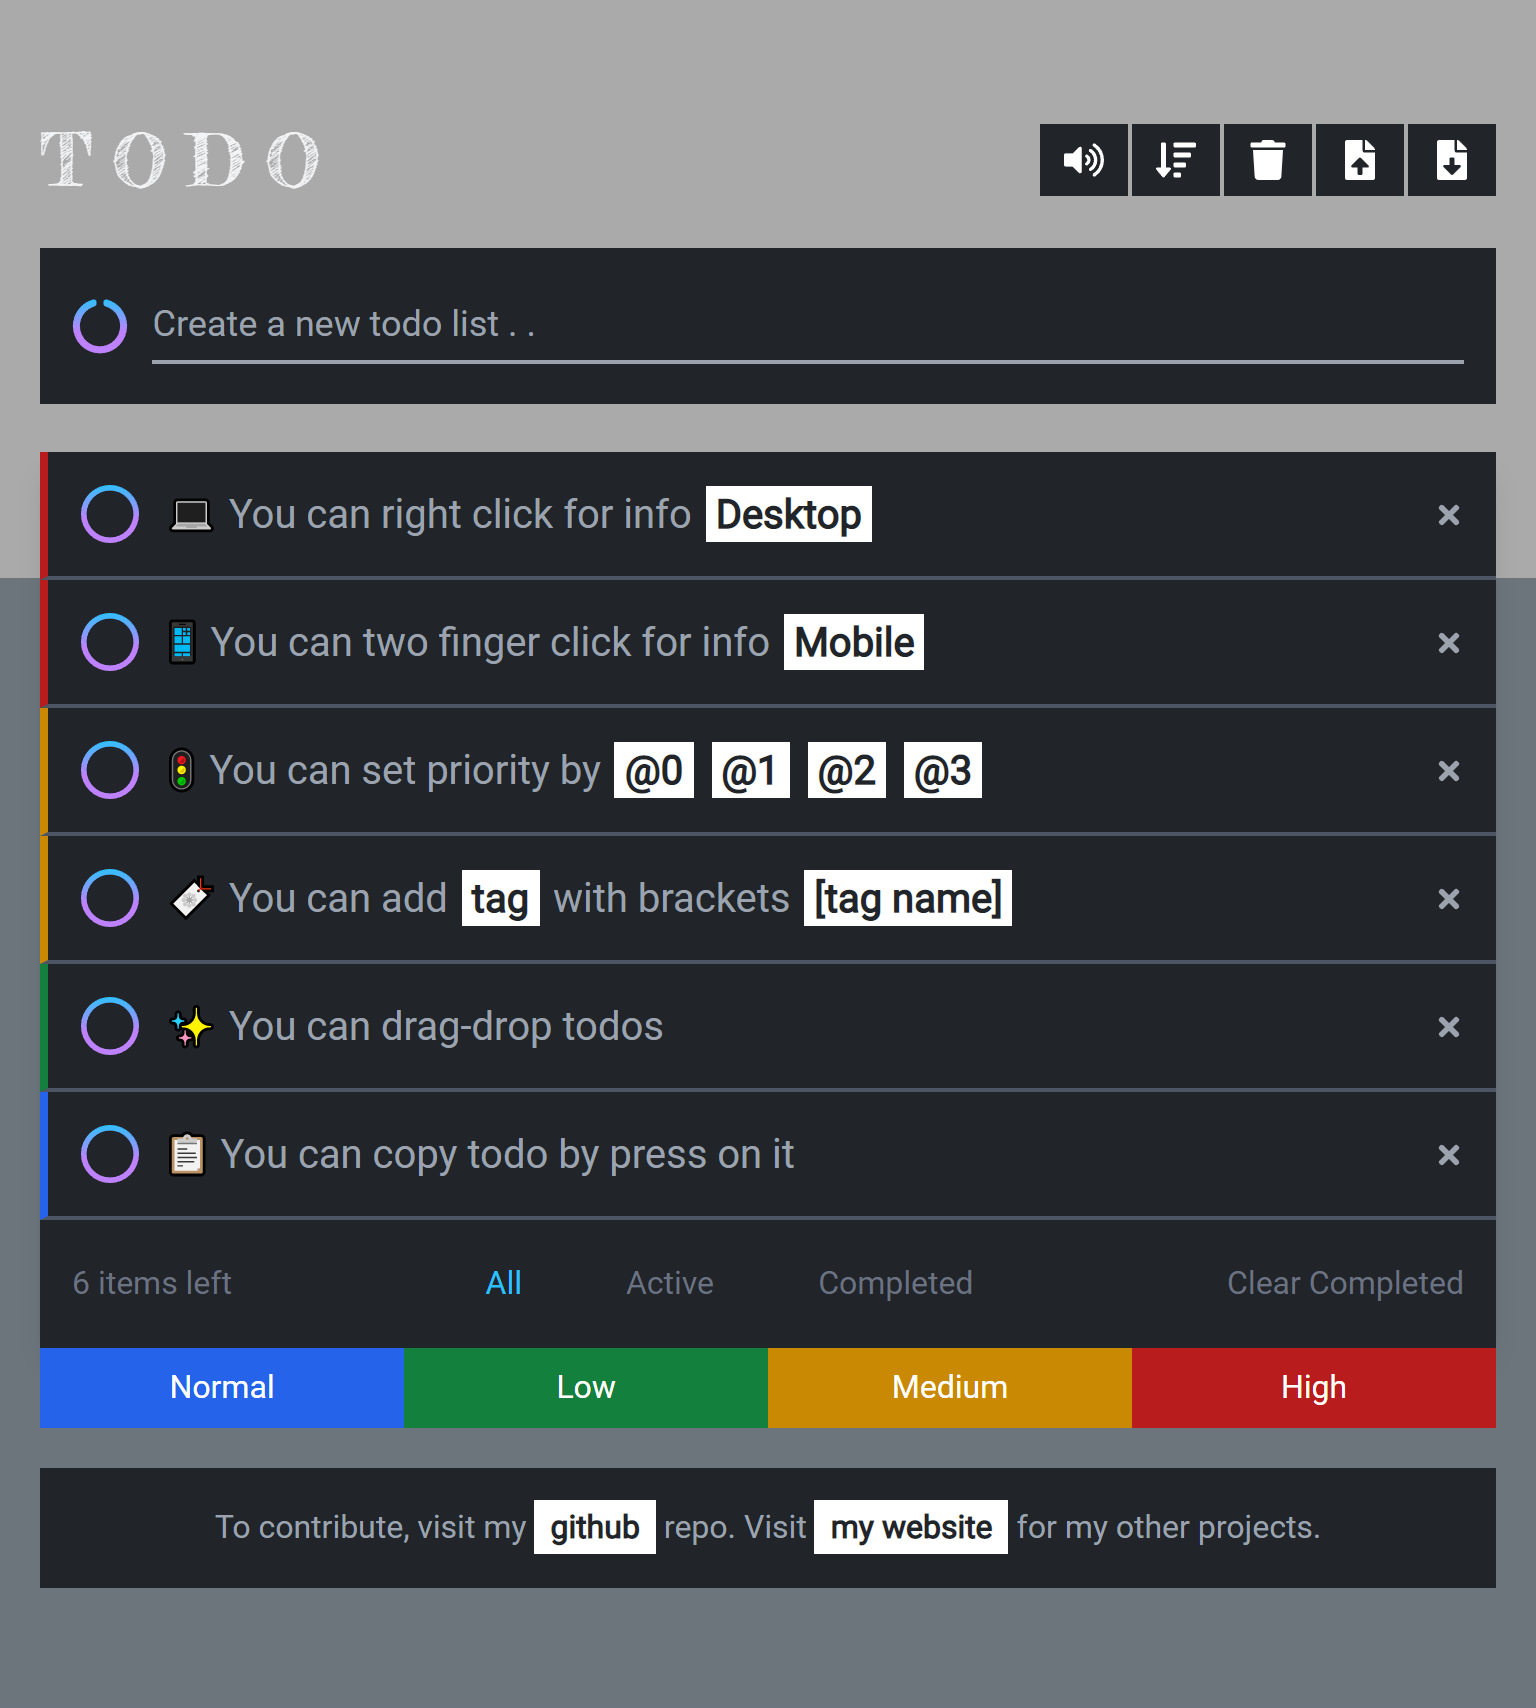
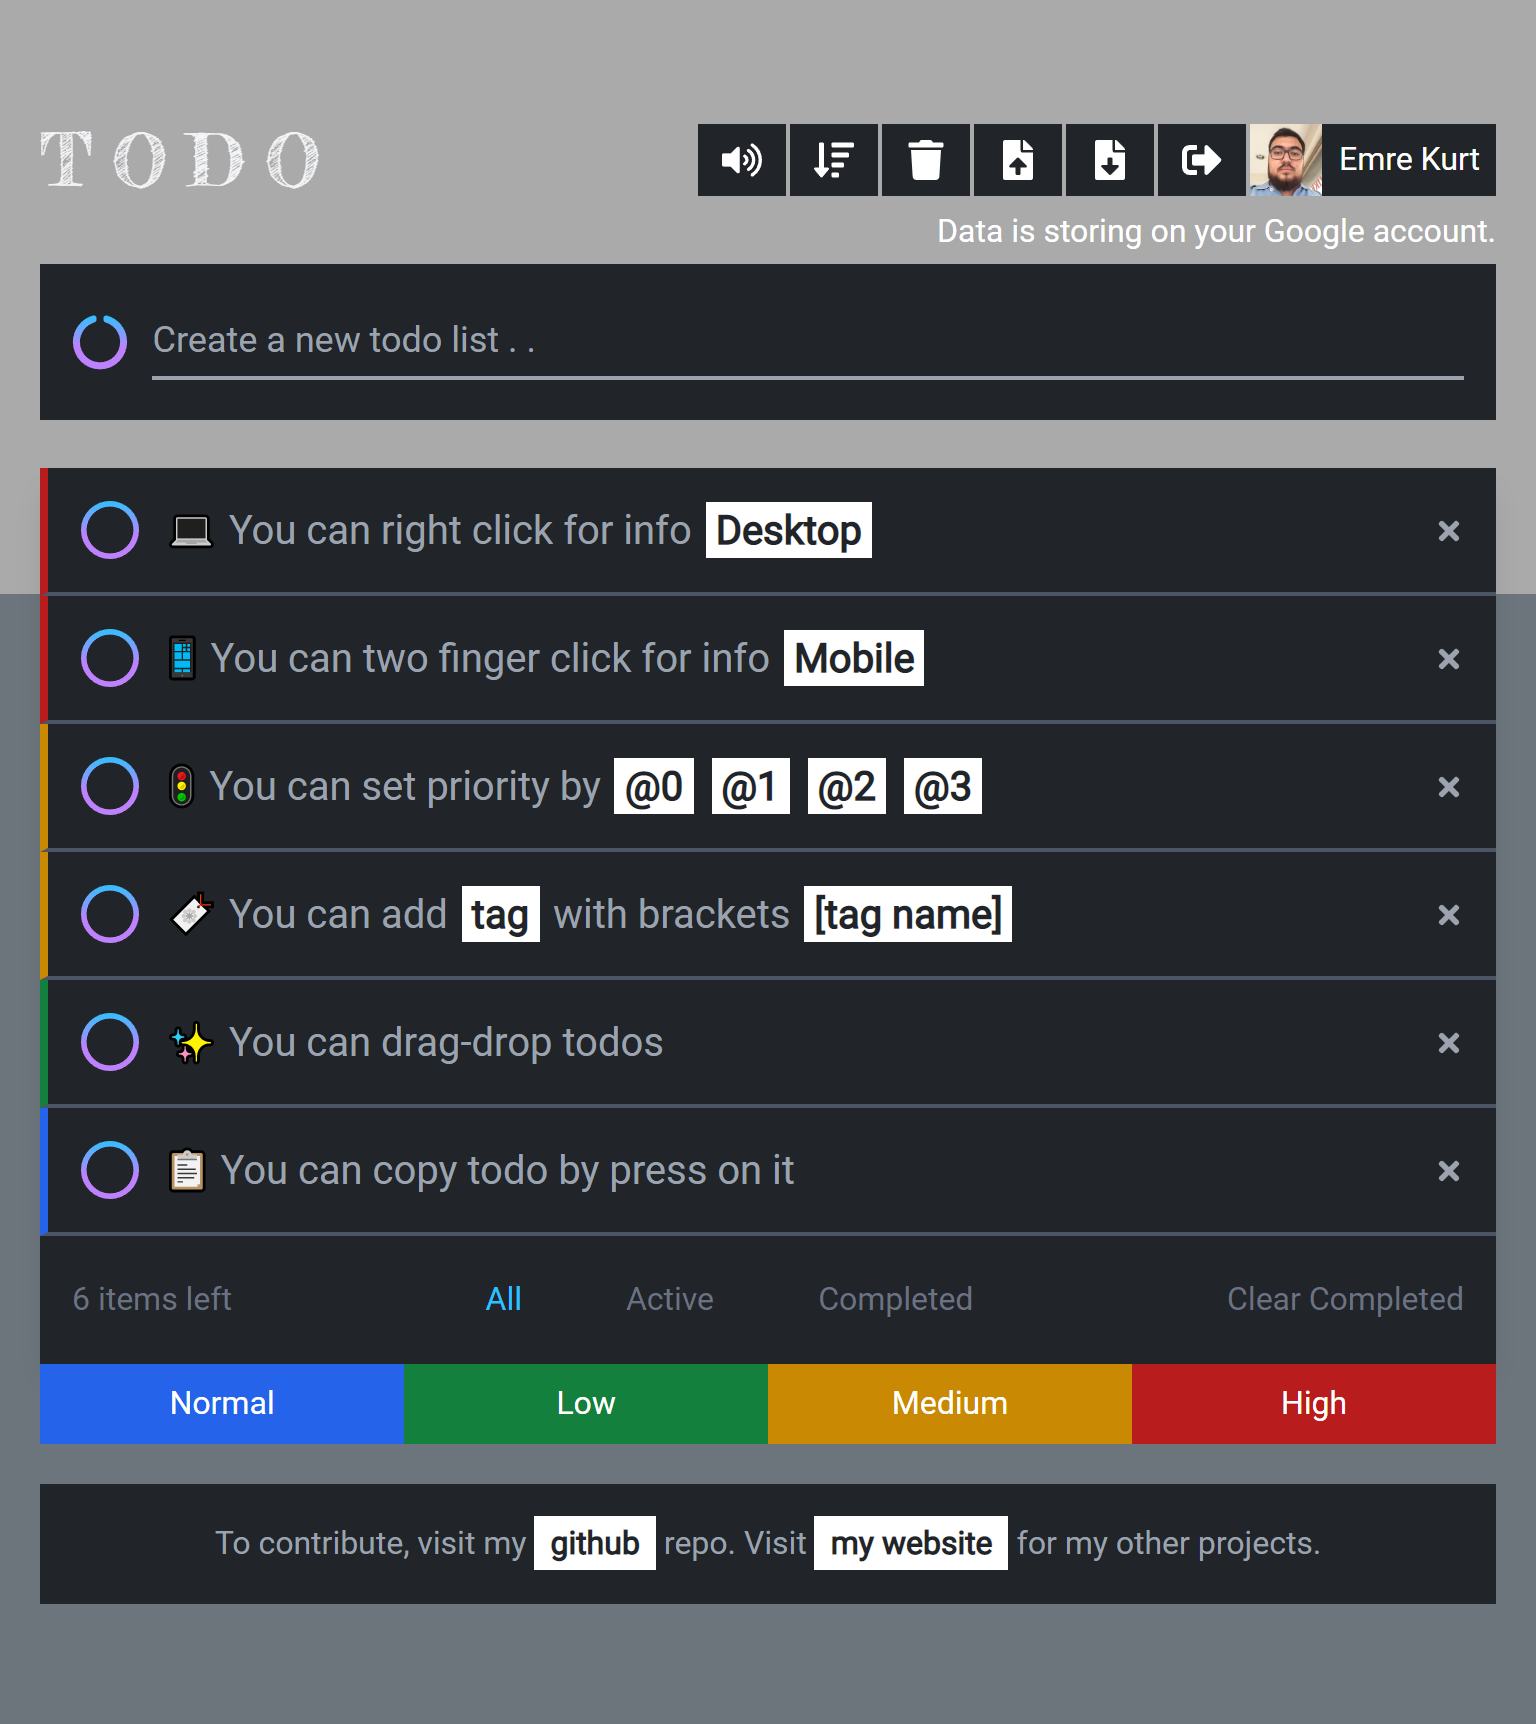
updated README.md file

diff --git a/README.md b/README.md
@@ -8,8 +8,9 @@
 
 ## ✨ Features
 
-- All data is stored in `Local Storage`
-- Import and Export todos
+- Data is storing in your browser `Local Storage` (when you're not login)
+- Data is storing in your Google account `Firebase` (when you're login)
+- Import and Export todos `.json`
 - Animate effects
 - Sound effects
 - Drag-Drop
@@ -24,6 +25,7 @@
 ![HTML5](https://img.shields.io/badge/html5-%23E34F26.svg?style=for-the-badge&logo=html5&logoColor=white)
 ![CSS3](https://img.shields.io/badge/css3-%231572B6.svg?style=for-the-badge&logo=css3&logoColor=white)
 ![React](https://img.shields.io/badge/react-%2320232a.svg?style=for-the-badge&logo=react&logoColor=%2361DAFB)
+![Redux](https://img.shields.io/badge/redux-%23593d88.svg?style=for-the-badge&logo=redux&logoColor=white)
 ![TailwindCSS](https://img.shields.io/badge/tailwindcss-%2338B2AC.svg?style=for-the-badge&logo=tailwind-css&logoColor=white)
 ![Vercel](https://img.shields.io/badge/vercel-%23000000.svg?style=for-the-badge&logo=vercel&logoColor=white)
 ![Yarn](https://img.shields.io/badge/yarn-%232C8EBB.svg?style=for-the-badge&logo=yarn&logoColor=white)
@@ -32,14 +34,17 @@
 
 - react
 - react-dom
+- react-redux
 - react-icons
 - react-toastify
 - react-card-flip
 - react-html-parser
 - react-beautiful-dnd
 - react-copy-to-clipboard
-- classnames
+- firebase
 - use-sound
+- classnames
+- @reduxjs/toolkit
 - @formkit/auto-animate
 
 ## ⚙ Development
@@ -79,3 +84,7 @@ yarn build
 ```
 yarn preview
 ```
+
+## ⚠ Warning
+
+#### Remember to rename the `.env.example` file to `.env` file and fill in the `.env` file.
